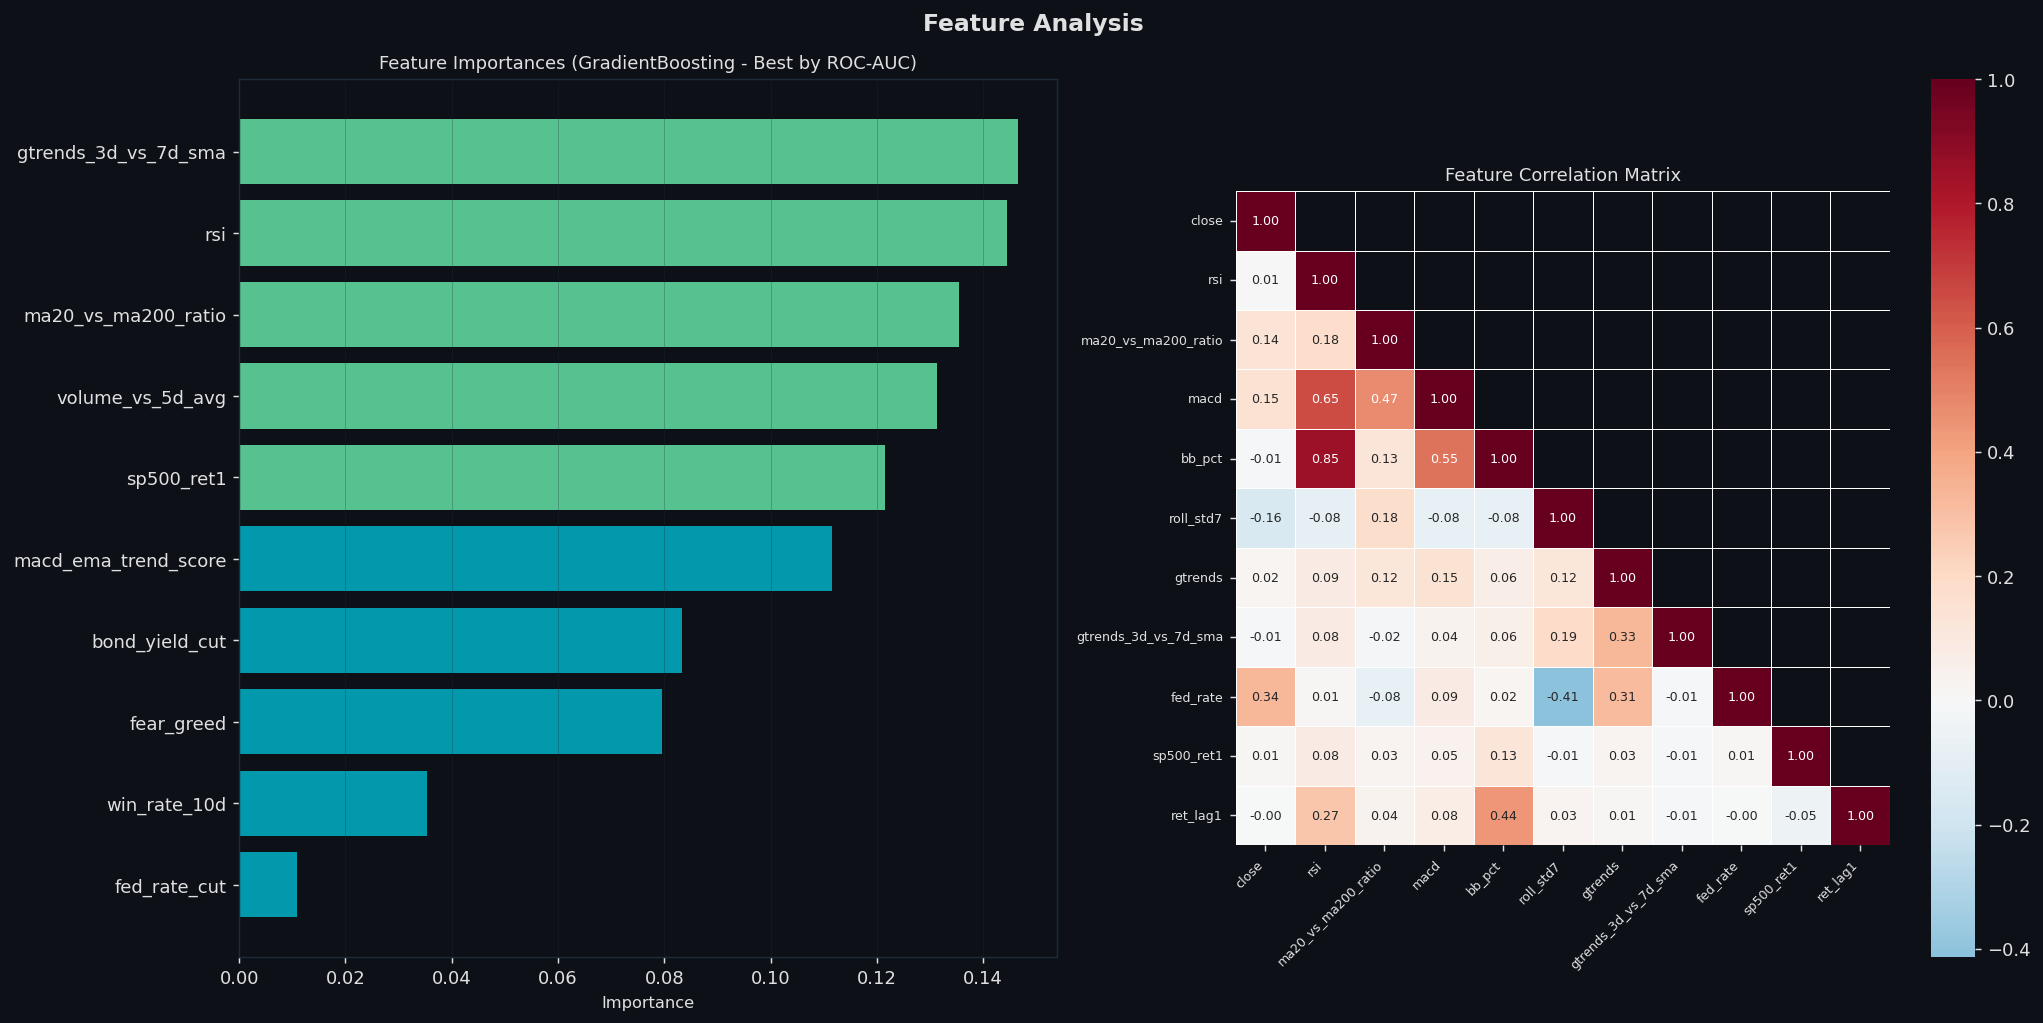
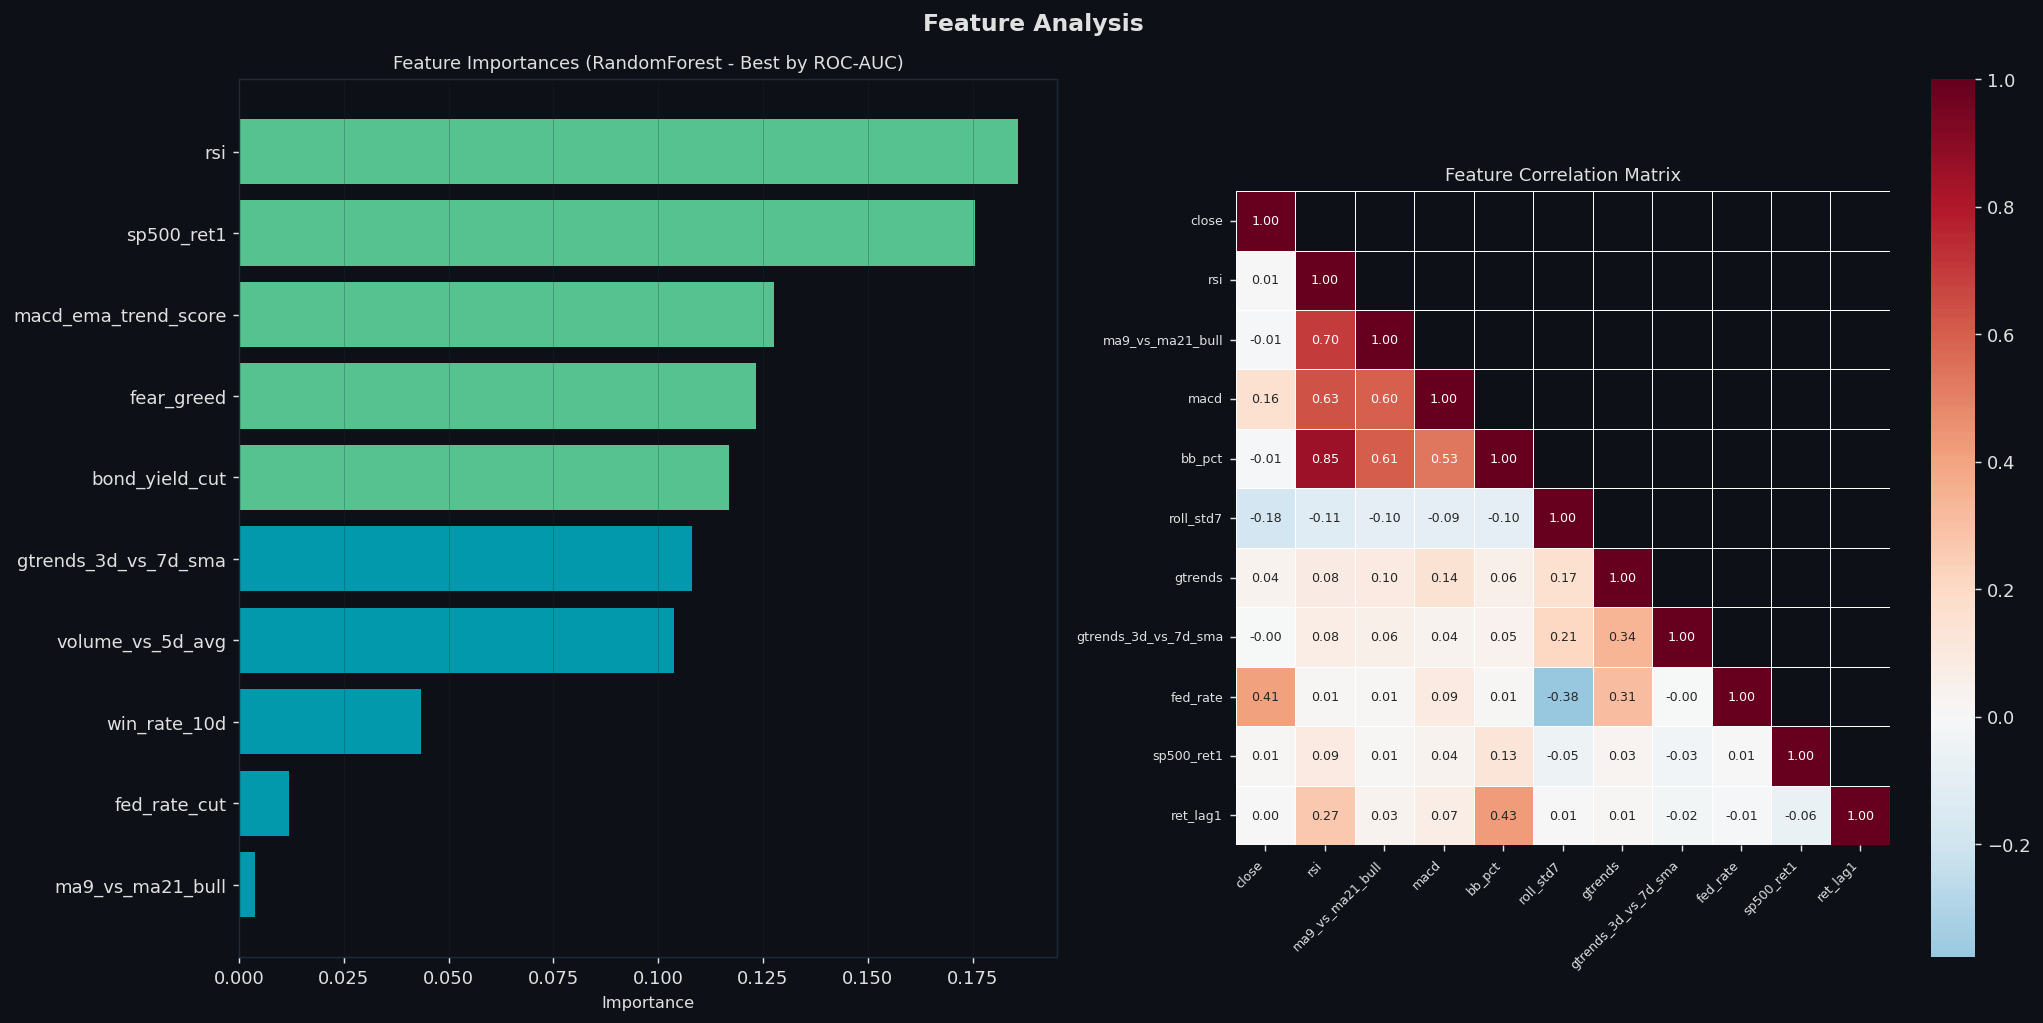
fix(ui): remove what-if table per user request
- Stripped out the 3-year what-if year-by-year table and toggle
- Re-wired regime parameters to run_backtest so model-level plots reflect the regime filter correctly
- Fixed plot 7 heights so both BTC and ETH stacked panels render without cropping in Streamlit

diff --git a/app.py b/app.py
@@ -231,9 +231,6 @@ if st.session_state.get("pipeline_done"):
     features_btc  = st.session_state["features_btc"]
     features_eth  = st.session_state["features_eth"]
     metrics_btc   = st.session_state["metrics_btc"]
-    metrics_eth   = st.session_state["metrics_eth"]
-    backtests_btc = st.session_state["backtests_btc"]
-    prediction_btc= st.session_state["prediction_btc"]
     prediction_eth= st.session_state["prediction_eth"]
     lr_coef_df    = st.session_state["lr_coef_df"]
     lr_formula    = st.session_state["lr_formula"]
@@ -294,7 +291,8 @@ if st.session_state.get("pipeline_done"):
         for name, (inp_type, model) in models_btc.items():
             re_backtests_btc[f"BTC-{name}"] = btc.run_backtest(
                 model, scaler_btc, inp_type, test_btc[features_btc], test_btc,
-                proba_cutoff=btc_cutoff, name=f"BTC-{name}"
+                proba_cutoff=btc_cutoff, name=f"BTC-{name}",
+                regime_overlay=regime_overlay, regime_ma_days=regime_ma_days
             )
         bt_rf = re_backtests_btc.get("BTC-GradientBoosting", list(re_backtests_btc.values())[0])
 
@@ -303,7 +301,8 @@ if st.session_state.get("pipeline_done"):
         for name, (inp_type, model) in models_eth.items():
             re_backtests_eth[f"ETH-{name}"] = btc.run_backtest(
                 model, scaler_eth, inp_type, test_eth[features_eth], test_eth,
-                proba_cutoff=eth_cutoff, name=f"ETH-{name}"
+                proba_cutoff=eth_cutoff, name=f"ETH-{name}",
+                regime_overlay=regime_overlay, regime_ma_days=regime_ma_days
             )
 
         btc.plot_all(
@@ -423,147 +422,6 @@ if st.session_state.get("pipeline_done"):
     # ═══════════════════════════════════════════════════════════════
     # SECTION 3 — WHAT-IF HISTORY TABLE
     # ═══════════════════════════════════════════════════════════════
-    if show_whatif and len(custom_bt) > 0:
-        st.header("📆 What-If: Year-by-Year Performance")
-        _tsyear = st.session_state.get('test_start_year', bt_start.year)
-        st.caption(
-            f"How would ${capital_m}M have performed each calendar year using our strategy? "
-            f"Models trained on {_tsyear-2} and before, validated on {_tsyear-1}. "
-            f"Uses signal cutoffs ({btc_cutoff:.2f}/{eth_cutoff:.2f}) and current allocation weights."
-        )
-
-        first_year = max(2020, bt_end.year - 2)   # last 3 calendar years from end date
-        last_year  = bt_end.year
-        year_rows  = []
-        compound_value = CAPITAL   # tracks compounded portfolio value year by year
-
-        for yr in range(first_year, last_year + 1):
-            yr_start = str(date(yr, 1, 1))
-            yr_end   = str(min(date(yr, 12, 31), bt_end))
-
-            ybt = btc.run_portfolio_backtest_custom(
-                models_btc, scaler_btc, features_btc,
-                models_eth, scaler_eth, features_eth,
-                df_btc, df_eth,
-                start_date       = yr_start,
-                end_date         = yr_end,
-                alloc_full_btc   = full_btc_pct / 100,
-                alloc_full_eth   = full_eth_pct / 100,
-                alloc_btc_only   = btc_only_pct / 100,
-                alloc_eth_eth    = eth_pct / 100,
-                btc_cutoff       = btc_cutoff,
-                eth_cutoff       = eth_cutoff,
-                fee_rate         = fee_rate,
-                kill_pct         = kill_pct,
-                regime_overlay   = regime_overlay,
-                regime_ma_days   = regime_ma_days,
-            )
-            if len(ybt) == 0:
-                continue
-
-            yr_ret   = ybt.attrs["strat_return"]
-            yr_btc   = ybt.attrs["btc_bnh"]
-            yr_eth   = ybt.attrs["eth_bnh"]
-            yr_sh    = ybt.attrs["sharpe"]
-            yr_dd    = ybt.attrs["max_dd"]
-            yr_final = compound_value * (1 + yr_ret)
-            alpha_y  = yr_ret - yr_btc
-
-            # Count actual trading days available (some years may be partial)
-            days_in_period = len(ybt)
-
-            year_rows.append({
-                "Year":           yr,
-                "Period":         f"{yr_start} → {yr_end}",
-                "Strategy":       f"{yr_ret:+.1%}",
-                "BTC B&H":        f"{yr_btc:+.1%}",
-                "ETH B&H":        f"{yr_eth:+.1%}",
-                "Alpha":          f"{alpha_y:+.1%}",
-                "Sharpe":         f"{yr_sh:.2f}",
-                "Max DD":         f"{yr_dd:.1%}",
-                "Days":           days_in_period,
-                "Start Value":    f"${compound_value/1e6:.2f}M",
-                "End Value":      f"${yr_final/1e6:.2f}M",
-                # raw for coloring
-                "_ret":           yr_ret,
-                "_alpha":         alpha_y,
-                "_sharpe":        yr_sh,
-            })
-            compound_value = yr_final   # compound into next year
-
-        if year_rows:
-            # Summary row (full period)
-            total_ret_all = compound_value / CAPITAL - 1
-            summary_row = {
-                "Year":       "📊 TOTAL",
-                "Period":     f"{bt_start} → {bt_end}",
-                "Strategy":   f"{total_ret_all:+.1%}",
-                "BTC B&H":    "",
-                "ETH B&H":    "",
-                "Alpha":      "",
-                "Sharpe":     "",
-                "Max DD":     "",
-                "Days":       sum(r["Days"] for r in year_rows),
-                "Start Value": f"${CAPITAL/1e6:.2f}M",
-                "End Value":  f"${compound_value/1e6:.2f}M",
-                "_ret":       total_ret_all,
-                "_alpha":     0,
-                "_sharpe":    0,
-            }
-            all_rows = year_rows + [summary_row]
-
-            display_cols = ["Year", "Period", "Strategy", "BTC B&H", "ETH B&H",
-                            "Alpha", "Sharpe", "Max DD", "Days", "Start Value", "End Value"]
-            df_whatif = pd.DataFrame(all_rows)[display_cols]
-
-            # Style the table
-            def color_strategy(val):
-                try:
-                    v = float(val.replace("%","").replace("+",""))
-                    return f"color: {'#2ecc71' if v >= 0 else '#e74c3c'}; font-weight: 700"
-                except Exception:
-                    return ""
-
-            def color_alpha(val):
-                try:
-                    v = float(val.replace("%","").replace("+",""))
-                    return f"color: {'#2ecc71' if v >= 0 else '#e74c3c'}"
-                except Exception:
-                    return ""
-
-            styled = (
-                df_whatif.style
-                .applymap(color_strategy, subset=["Strategy"])
-                .applymap(color_alpha,    subset=["Alpha"])
-                .set_properties(**{"text-align": "center"})
-                .set_table_styles([
-                    {"selector": "th", "props": [("background-color", "#1e3a5f"),
-                                                  ("color", "#f39c12"),
-                                                  ("font-weight", "700"),
-                                                  ("text-align", "center")]},
-                    {"selector": "tr:last-child td",
-                     "props": [("background-color", "#1e3a5f"),
-                                ("color", "#ffffff"),
-                                ("font-weight", "800"),
-                                ("border-top", "2px solid #f39c12")]},
-                ])
-            )
-            st.dataframe(styled, use_container_width=True, hide_index=True)
-
-            # Highlight the compounded result
-            delta_emoji = "🚀" if compound_value > CAPITAL else "📉"
-            st.success(
-                f"{delta_emoji} **Compounded Result:** ${capital_m}M invested at **{bt_start}** "
-                f"→ **${compound_value/1e6:.2f}M** by **{bt_end}** "
-                f"({total_ret_all:+.1%} total return)"
-            )
-        else:
-            st.warning("No data available for the selected date range.")
-        st.divider()
-
-    # ═══════════════════════════════════════════════════════════════
-    # SECTION 4 — TODAY'S PRICES
-    # ═══════════════════════════════════════════════════════════════
     st.header("💲 Current Prices")
     p1, p2 = st.columns(2)
     p1.metric("Bitcoin (BTC)", f"${prediction_btc['close']:,.2f}", f"{prediction_btc['today_ret']:+.2%} on {prediction_btc['date']}")
@@ -581,8 +439,8 @@ if st.session_state.get("pipeline_done"):
     st.caption(f"BTC Cutoff: {btc_cutoff:.0%} | ETH Cutoff: {eth_cutoff:.0%} | Kill Switch: -{kill_pct_val}% daily stop")
 
     # ── Cumulative Return — Per-Model comparison (BTC | ETH) ─────────────
-    st.subheader("📈 Cumulative Return: All Models vs Buy & Hold (BTC ● ETH)")
-    st.caption("Left panel: each BTC model vs BTC Buy&Hold. Right panel: each ETH model vs ETH Buy&Hold. 🏆 = best return model.")
+    st.subheader("📈 Cumulative Return: All Models vs Buy & Hold (BTC & ETH)")
+    st.caption("Top panel: each BTC model vs BTC Buy&Hold. Bottom panel: each ETH model vs ETH Buy&Hold. 🏆 = best return model.")
     p7 = "plot7_cumulative_returns.png"
     if os.path.exists(p7):
         st.image(p7, use_container_width=True)

diff --git a/btc_signal_pipeline.py b/btc_signal_pipeline.py
@@ -102,7 +102,7 @@ OUTPUT_DIR      = "."            # where to save plots
 CORE_FEATURES = [
     "macd_ema_trend_score",      # EMA crossover + MACD histogram (asset-specific trend composite)
     "rsi",              # RSI-14 overbought/oversold (asset-specific momentum oscillator)
-    "ma20_vs_ma200_ratio",         # Short/Long term trend regime (MA20 / MA200)
+    "ma9_vs_ma21_bull", # Fast short/long term trend regime crossover (MA9 / MA21)
     "volume_vs_5d_avg",        # Volume vs 5-day avg — confirms trend conviction
     "win_rate_10d",     # 10-day win rate: % of last 10 days that closed up
     # --- Mandated by User ---
@@ -872,7 +872,9 @@ def run_backtest(model, scaler, inp_type,
                  test_df: pd.DataFrame,
                  proba_cutoff: float = 0.50,
                  fee_rate: float = 0.001,
-                 name: str = "Strategy") -> pd.DataFrame:
+                 name: str = "Strategy",
+                 regime_overlay: bool = True,
+                 regime_ma_days: int = 20) -> pd.DataFrame:
     """
     Backtest logic:
       - Buy at Close_t, exit at Close_{t+1}
@@ -885,6 +887,12 @@ def run_backtest(model, scaler, inp_type,
     proba   = model.predict_proba(X)[:, 1] if hasattr(model, "predict_proba") \
               else model.predict(X).astype(float)
     signal  = (proba >= proba_cutoff).astype(int)
+
+    # ── Bull Regime Overlay (MA9 > MA21) ──────────────────────────────────────
+    if regime_overlay and "ma9_vs_ma21_bull" in test_df.columns:
+        bull_regime = (test_df["ma9_vs_ma21_bull"].rolling(regime_ma_days, min_periods=1).sum()
+                       >= regime_ma_days * 0.75).astype(int).values
+        signal = np.where(bull_regime == 1, 1, signal)
 
     bt = test_df[["close", "forward_ret"]].copy()
     bt["signal"]      = signal
@@ -1551,7 +1559,7 @@ def plot_all(df, metrics_df, backtests, bt_rf, imp_df, features, models,
 
     # Right: Correlation heatmap of key features
     ax_cm = axes[1]
-    key_features = ["close", "rsi", "ma20_vs_ma200_ratio", "macd", "bb_pct",
+    key_features = ["close", "rsi", "ma9_vs_ma21_bull", "macd", "bb_pct",
                     "roll_std7", "gtrends", "gtrends_3d_vs_7d_sma", "fed_rate", "sp500_ret1",
                     "ret_lag1"]
     key_features = [f for f in key_features if f in df.columns]
@@ -1638,9 +1646,10 @@ def plot_all(df, metrics_df, backtests, bt_rf, imp_df, features, models,
     _have_eth_bt = backtests_eth is not None and len(backtests_eth) > 0
 
     n_panels = 2 if _have_eth_bt else 1
+    # Increased height per panel (9 instead of 8) and general figsize for better spacing
     fig7, axes7 = plt.subplots(
         n_panels, 1,
-        figsize=(18, 8 * n_panels),
+        figsize=(18, 9 * n_panels),
         facecolor=BG
     )
     if n_panels == 1:
